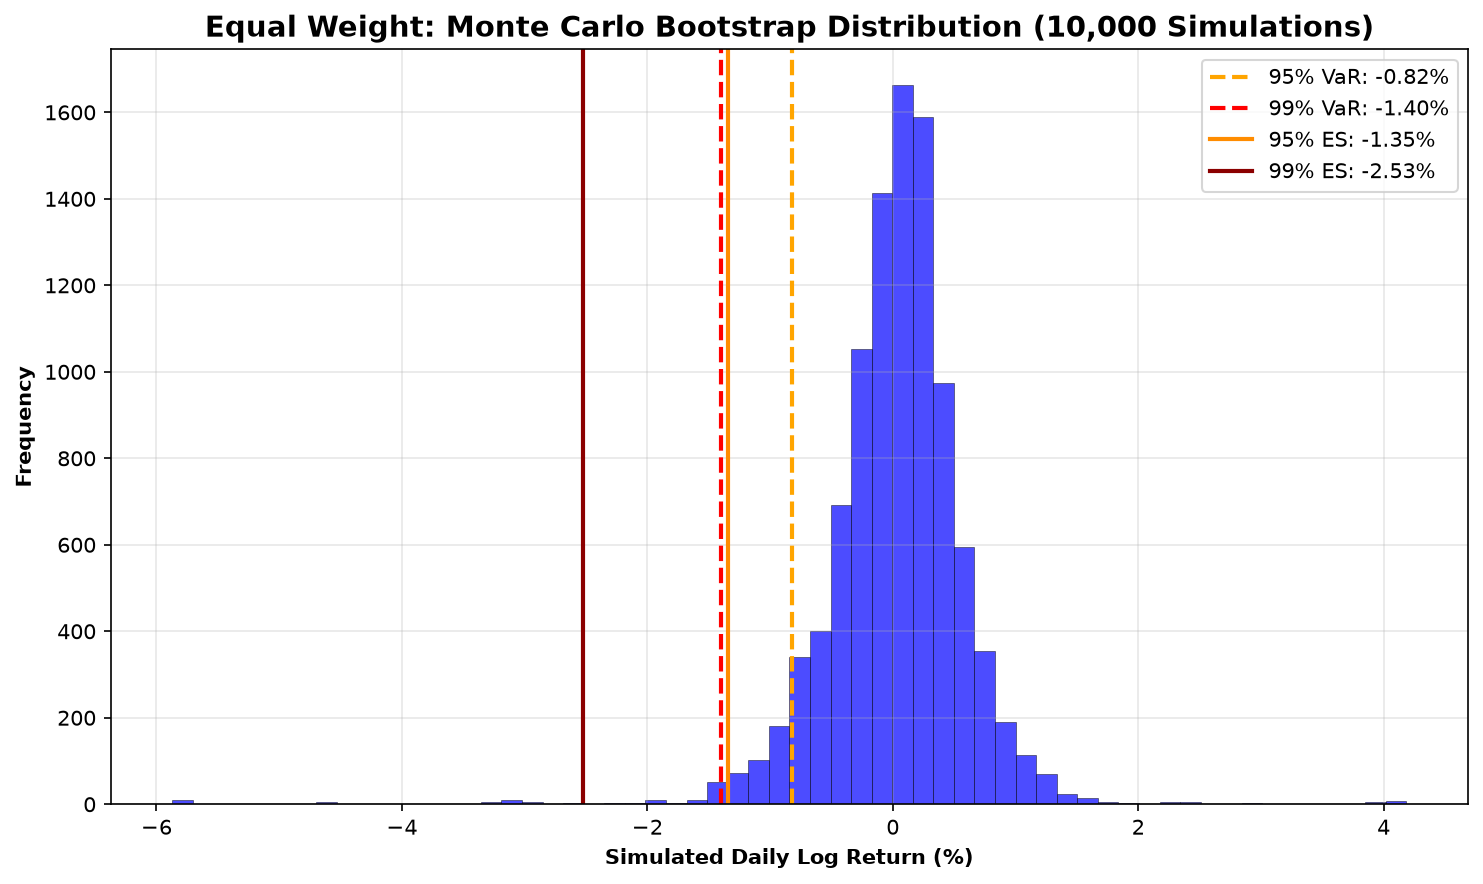
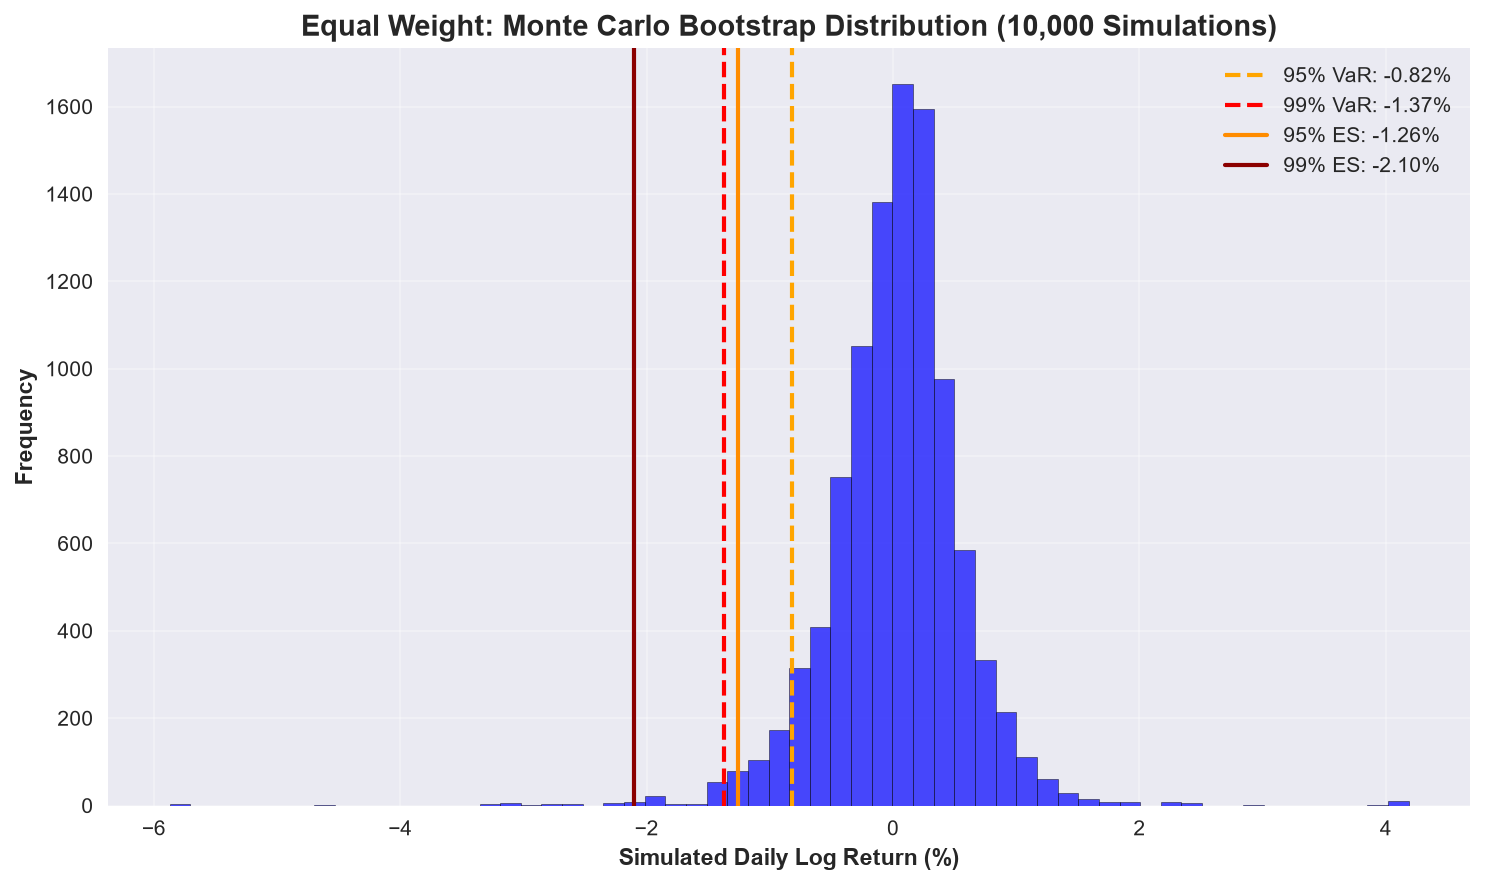
Phase 06: Expanding Window Backtesting

diff --git a/src/06_back_testing.py b/src/06_back_testing.py
@@ -1,0 +1,222 @@
+# Phase 06: Rolling Window Backtesting 
+
+import pandas as pd
+import numpy as np 
+import matplotlib.pyplot as plt
+from scipy.stats import norm, t
+import os
+
+os.makedirs("outputs", exist_ok = True)
+os.makedirs("data", exist_ok = True)
+
+port1_log_returns = pd.read_csv("data/01_port1_log_returns.csv", index_col = 0, parse_dates = True)["Equal Weight"]
+all_portfolio_log_returns = pd.read_csv("data/01_all_portfolio_log_returns.csv", index_col = 0, parse_dates = True)
+
+portfolio_value = 100_000
+test_years = [2021, 2022, 2023, 2024, 2025] # These are the years we will test using data up to this year e.g 2022 backtest trains on 2016-2021 data
+
+def calculate_var(returns_series, method = "historical", alpha = 0.01): # This functions calclates var for a specified training period
+ 
+    if method == "historical": 
+        return np.percentile(returns_series, alpha * 100)
+    
+    elif method == "normal":
+        mu = returns_series.mean()
+        sigma = returns_series.std()
+        return norm.ppf(alpha, mu, sigma)
+    
+    elif method == "student_t":
+        df, loc, scale = t.fit(returns_series)
+        return t.ppf(alpha, df, loc, scale)
+    
+    else:
+        raise ValueError("Method must be 'historical', 'normal', or 'student_t'")
+
+backtest_results = [] # Store the results of the backtest 
+
+for year in test_years:
+    train_data = port1_log_returns[port1_log_returns.index.year < year] # Reminder: this is only using the equal weight portfolio at first 
+    test_data = port1_log_returns[port1_log_returns.index.year == year]
+    
+    if len(train_data) < 100 or len(test_data) == 0: # This is to ensure there is enough data to train on accurately 
+        continue
+    
+    hist_var_99 = calculate_var(train_data, "historical", 0.01) # 99% VaR
+    norm_var_99 = calculate_var(train_data, "normal", 0.01)
+    t_var_99 = calculate_var(train_data, "student_t", 0.01)
+    
+    hist_breaches_99 = (test_data < hist_var_99).sum() # Counts the number of times that the VaR ( 99% ) is exceeded / breached using all the models
+    norm_breaches_99 = (test_data < norm_var_99).sum()
+    t_breaches_99 = (test_data < t_var_99).sum()
+
+    hist_var_95 = calculate_var(train_data, "historical", 0.05) # 95% VaR
+    norm_var_95 = calculate_var(train_data, "normal", 0.05)
+    t_var_95 = calculate_var(train_data, "student_t", 0.05)
+    
+    hist_breaches_95 = (test_data < hist_var_95).sum() # Counts the number of times that the VaR ( 95% ) is exceeded / breached using all the models
+    norm_breaches_95 = (test_data < norm_var_95).sum()
+    t_breaches_95 = (test_data < t_var_95).sum()
+    
+    expected_99 = len(test_data) * 0.01 # Expected number of breaches under both 95% and 99% VaR
+    expected_95 = len(test_data) * 0.05
+    
+    backtest_results.append({ # Creates a dictionary to store results of the backtest for each year & loops
+        "Year": year,
+        "Days": len(test_data),
+        "Expected 99%": expected_99,
+        "Expected 95%": expected_95,
+        "Hist 99": hist_breaches_99,
+        "Norm 99": norm_breaches_99,
+        "T 99": t_breaches_99,
+        "Hist 95": hist_breaches_95,
+        "Norm 95": norm_breaches_95,
+        "T 95": t_breaches_95
+    })
+
+df_backtest = pd.DataFrame(backtest_results)
+
+all_backtest_results = [] # repeats the same as above but has an additional loop to go through all 5 portfolio types 
+
+for name in all_portfolio_log_returns.columns:
+    rets = all_portfolio_log_returns[name]
+    
+    for year in test_years:
+        train_data = rets[rets.index.year < year]
+        test_data = rets[rets.index.year == year]
+        
+        if len(train_data) < 100 or len(test_data) == 0:
+            continue
+        
+        hist_var_99 = calculate_var(train_data, "historical", 0.01)
+        norm_var_99 = calculate_var(train_data, "normal", 0.01)
+        t_var_99 = calculate_var(train_data, "student_t", 0.01)
+        
+        all_backtest_results.append({
+            "Portfolio": name,
+            "Year": year,
+            "Days": len(test_data),
+            "Historical 99": (test_data < hist_var_99).sum(),
+            "Normal 99": (test_data < norm_var_99).sum(),
+            "Student-t 99": (test_data < t_var_99).sum()
+        })
+
+df_all_backtest = pd.DataFrame(all_backtest_results)
+
+print("=" * 60) # Print Section
+print("Phase 06: Rolling Window Backtesting")
+print("=" * 60)
+print("\nTesting Period: 2021-2025")
+print("Training: All data before each test year")
+print(f"Portfolio: Equal Weight\n")
+print("-" * 60 + "\n")
+
+for _, row in df_backtest.iterrows():
+    year = int(row["Year"])
+    days = int(row["Days"])
+    print(f"\n{year} ({days} days)\n")
+    print(f"99% VaR:")
+    print(f"Expected: {row['Expected 99%']:.1f} | Historical: {row['Hist 99']:.0f}, Normal: {row['Norm 99']:.0f}, Student-t: {row['T 99']:.0f}")
+    print(f"\n95% VaR:")
+    print(f"Expected: {row['Expected 95%']:.1f} | Historical: {row['Hist 95']:.0f}, Normal: {row['Norm 95']:.0f}, Student-t: {row['T 95']:.0f}")
+
+print("\n" + "-" * 60 + "\n")
+pivot_hist = df_all_backtest.pivot(index = "Portfolio", columns = "Year", values = "Historical 99")
+pivot_norm = df_all_backtest.pivot(index = "Portfolio",columns = "Year", values = "Normal 99")
+pivot_t = df_all_backtest.pivot(index = "Portfolio",columns = "Year", values = "Student-t 99")
+
+print("Historical 99% Breaches\n")
+print(pivot_hist.to_string())
+print("\nNormal 99% Breaches\n")
+print(pivot_norm.to_string())
+print("\nStudent-t 99% Breaches\n")
+print(pivot_t.to_string())
+print("\n" + "-" * 60)
+
+plt.style.use("seaborn-v0_8")  # Plot style
+
+plt.figure(figsize = (12, 6)) # Plot 1: Breaches Over time - equal weight portfolio 99% VaR breaches
+years = df_backtest["Year"]
+x_pos = np.arange(len(years))
+width = 0.15
+plt.bar(x_pos - 0.75*width, df_backtest["Hist 99"], width, label = "Historical 99%", color = "blue", alpha = 0.7, edgecolor = "black")
+plt.bar(x_pos - 0.25*width, df_backtest["Norm 99"], width, label = "Normal 99%", color = "red", alpha = 0.7, edgecolor = "black")
+plt.bar(x_pos + 0.25*width, df_backtest["T 99"], width, label = "Student-t 99%", color = "green", alpha = 0.7, edgecolor = "black")
+plt.bar(x_pos + 0.75*width, df_backtest["Expected 99%"], width, label = "Expected 99%", color = "black", alpha = 0.5, edgecolor = "black")
+plt.xticks(x_pos, years, fontweight = "bold")
+plt.xlabel("Test Year", fontweight = "bold")
+plt.ylabel("Number of Breaches", fontweight = "bold")
+plt.title("Equal Weight: 99% VaR Breaches by Model (2021-2025)", fontsize = 14, fontweight = "bold")
+plt.legend()
+plt.grid(axis = "y", alpha = 0.3)
+plt.tight_layout()
+plt.savefig("outputs/06_backtest_breaches_99.png", dpi = 150, bbox_inches = "tight")
+plt.show()
+
+plt.figure(figsize = (10, 6)) # Plot 2: Normal breaches 99% - traffic light colours
+breach_rates = df_backtest["Norm 99"] / df_backtest["Days"] * 100
+colors = []
+for rate in breach_rates:
+    if rate <= 1.5:
+        colors.append("green")
+    elif rate <= 2.5:
+        colors.append("orange")
+    else:
+        colors.append("red")
+bars = plt.bar(years, breach_rates, color = colors, alpha = 0.7, edgecolor = "black", linewidth = 1)
+plt.axhline(y = 0, color = "green", linestyle = "--", linewidth = 1.5, label = "Green Zone (≤1.5%)")
+plt.axhline(y = 1.5, color = "orange", linestyle = "--", linewidth = 1.5, label = "Orange Zone (1.5-2.5%)")
+plt.axhline(y = 2.5, color = "red", linestyle = "--", linewidth = 1.5, label = "Red Zone (>=2.5%)")
+for bar, rate in zip(bars, breach_rates):
+    plt.text(bar.get_x() + bar.get_width()/2, bar.get_height() + 0.1,
+             f'{rate:.1f}%', ha = 'center', va = 'bottom', fontsize = 10, fontweight = 'bold')
+plt.xlabel("Test Year", fontweight = "bold")
+plt.ylabel("Breach Rate (%)", fontweight = "bold")
+plt.title("Normal Model (99% VaR): Traffic Light Backtest (Equal Weight)", fontsize = 14, fontweight = "bold")
+plt.legend()
+plt.grid(axis = "y", alpha = 0.3)
+plt.tight_layout()
+plt.savefig("outputs/06_backtest_traffic_light.png", dpi = 150, bbox_inches = "tight")
+plt.show()
+
+
+plt.figure(figsize = (10, 6)) # Plot 3: 2022 Crisis comparison 
+df_2022 = df_all_backtest[df_all_backtest["Year"] == 2022]
+portfolios = df_2022["Portfolio"]
+x_pos = np.arange(len(portfolios))
+width = 0.25
+plt.bar(x_pos - width, df_2022["Historical 99"], width, label = "Historical", color = "blue", alpha = 0.7, edgecolor = "black")
+plt.bar(x_pos, df_2022["Normal 99"], width, label = "Normal", color = "red", alpha = 0.7, edgecolor = "black")
+plt.bar(x_pos + width, df_2022["Student-t 99"], width, label = "Student-t", color = "green", alpha = 0.7, edgecolor = "black")
+plt.axhline(y = 2.5, color = "black", linestyle = "--", linewidth = 1.5, label = "Expected Breaches (~2.5)")
+plt.xticks(x_pos, portfolios, rotation = 15, fontweight = "bold")
+plt.xlabel("Portfolio", fontweight = "bold")
+plt.ylabel("Number of Breaches (99% VaR)", fontweight = "bold")
+plt.title("2022 Crisis: 99% VaR Breaches by Portfolio", fontsize = 14, fontweight = "bold")
+plt.legend()
+plt.grid(axis = "y", alpha = 0.3)
+plt.tight_layout()
+plt.savefig("outputs/06_backtest_2022_crisis.png", dpi = 150, bbox_inches = "tight")
+plt.show()
+
+
+plt.figure(figsize = (10, 6)) # Plot 4: 95% vs 99% VaR breach rate analysis for normal distribution 
+x_pos = np.arange(len(years))
+width = 0.35
+breach_99 = df_backtest["Norm 99"] / df_backtest["Days"] * 100
+breach_95 = df_backtest["Norm 95"] / df_backtest["Days"] * 100
+plt.bar(x_pos - width/2, breach_95, width, label = "95% VaR", color = "orange", alpha = 0.7, edgecolor = "black")
+plt.bar(x_pos + width/2, breach_99, width, label = "99% VaR", color = "red", alpha = 0.7, edgecolor = "black")
+plt.axhline(y = 1.0, color = "green", linestyle = "--", linewidth = 1.5, label = "Expected 99% (1%)")
+plt.axhline(y = 5.0, color = "blue", linestyle = "--", linewidth = 1.5, label = "Expected 95% (5%)")
+plt.xticks(x_pos, years, fontweight = "bold")
+plt.xlabel("Test Year", fontweight = "bold")
+plt.ylabel("Breach Rate (%)", fontweight = "bold")
+plt.title("Normal Model: 95% vs 99% VaR Breach Rates (Equal Weight)", fontsize = 14, fontweight = "bold")
+plt.legend()
+plt.grid(axis = "y", alpha = 0.3)
+plt.tight_layout()
+plt.savefig("outputs/06_backtest_95_vs_99.png", dpi = 150, bbox_inches = "tight")
+plt.show()
+
+df_backtest.to_csv("data/06_backtest_results.csv", index = False) # Save results
+df_all_backtest.to_csv("data/06_backtest_all_portfolios.csv", index = False)

diff --git a/src/05_monte_carlo.py b/src/05_monte_carlo.py
@@ -107,6 +107,8 @@ print("\n" + "-" * 60 + "\n")
 print(df_compare.round(4).to_string(index = False))
 print("\n" + "-" * 60)
 
+plt.style.use("seaborn-v0_8")  # Plot style
+
 plt.figure(figsize = (10, 6)) # Plot 1: Distribution of simulated daily returns 
 plt.hist(simulated_returns * 100, bins = 60, color = "blue", alpha = 0.7, edgecolor = "black", linewidth = 0.3)
 plt.axvline(bootstrap_var_95 * 100, color = "orange", linestyle = "--", linewidth = 2, label = f"95% VaR: {bootstrap_var_95:.2%}")
